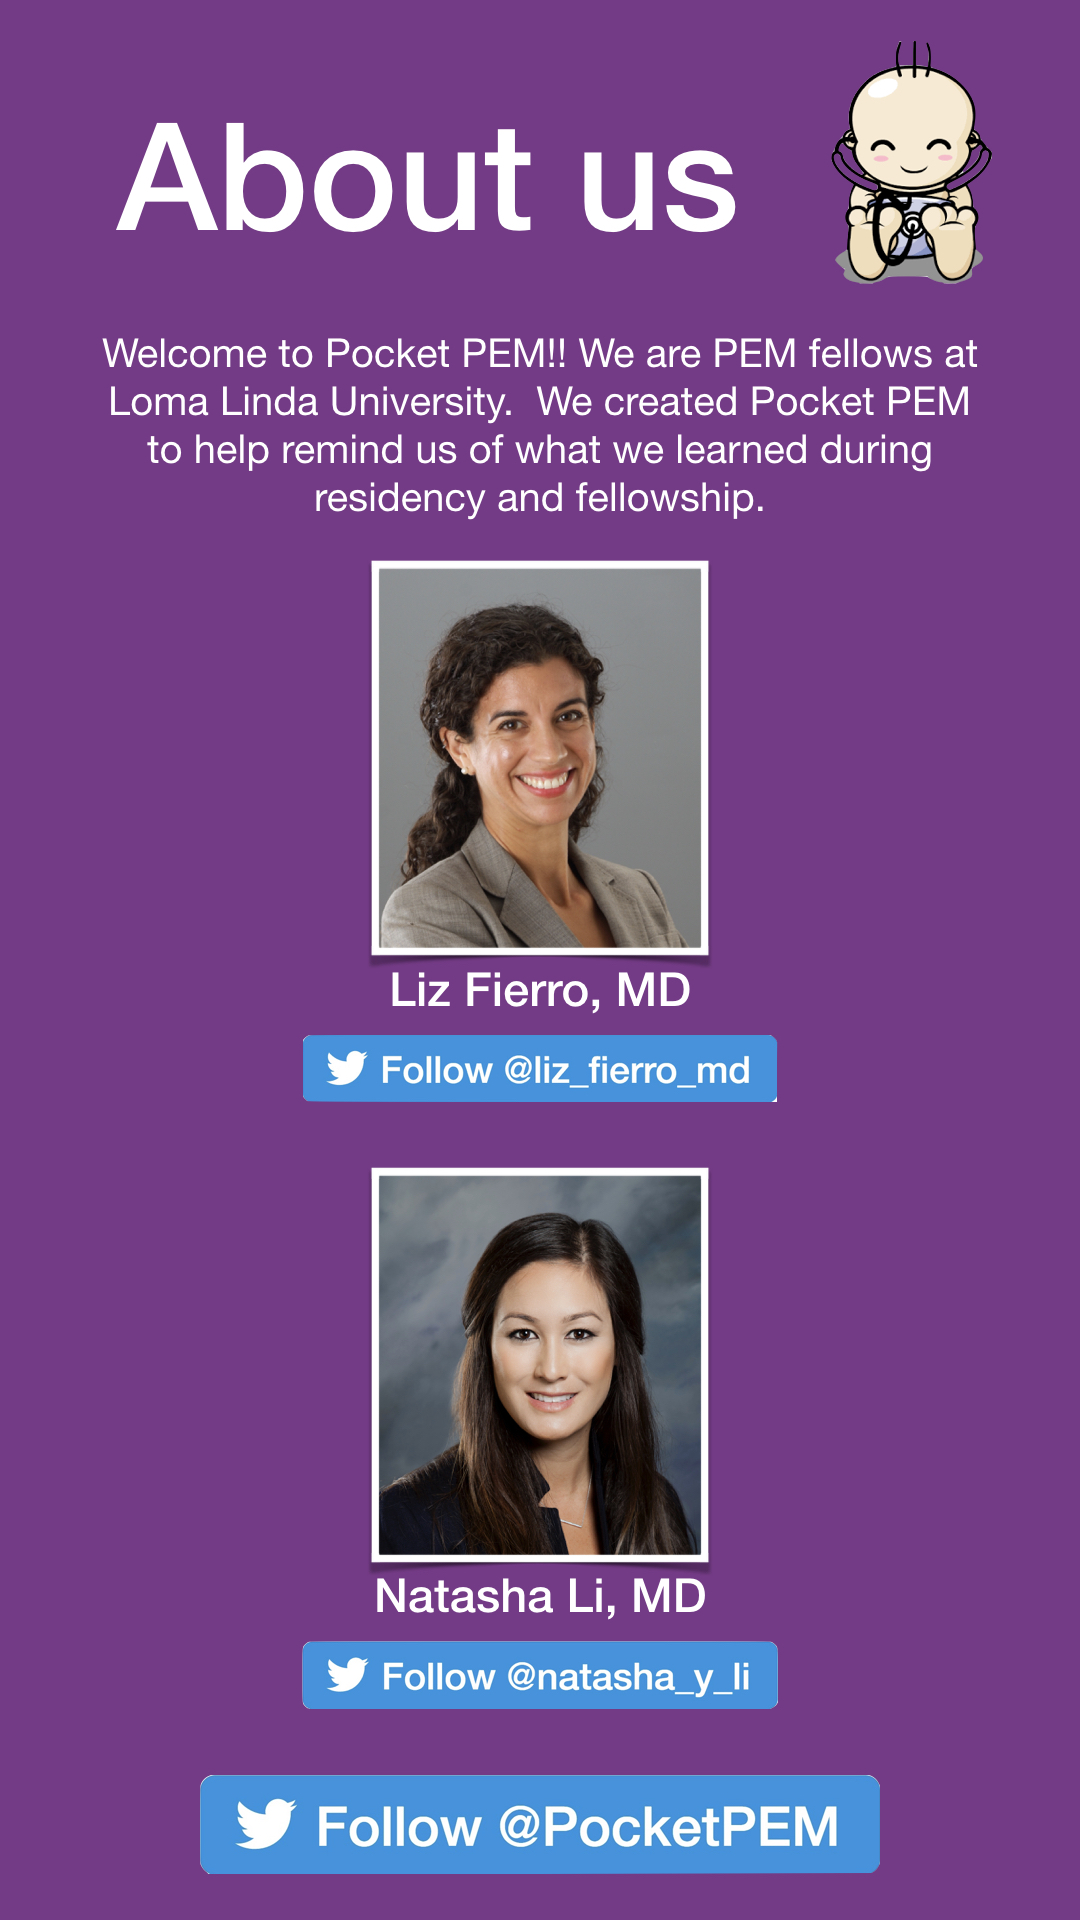
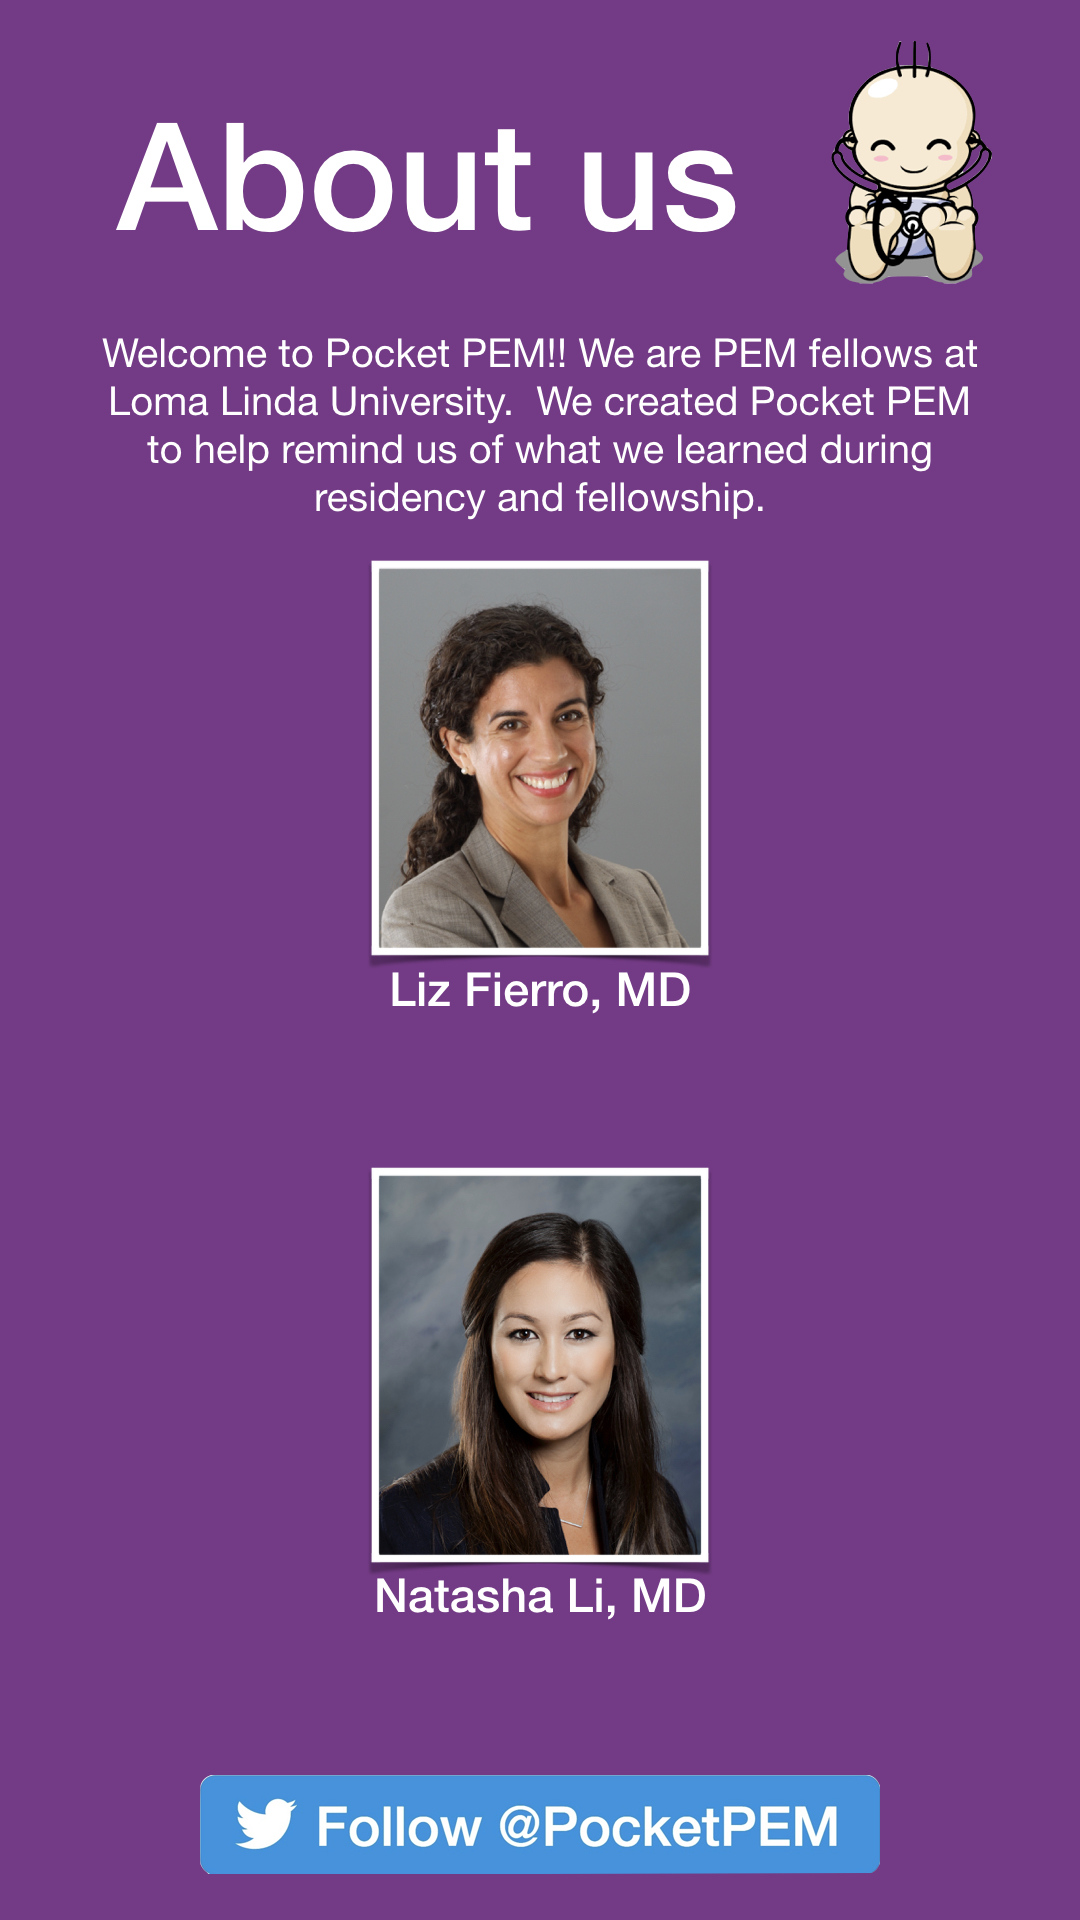
media

Changed region(s): [[0.275, 0.8438, 0.7333, 0.9062], [0.275, 0.5312, 0.7333, 0.5938]]

diff --git a/aboutus.html b/aboutus.html
@@ -11,8 +11,6 @@
     <a href="toc.html"><img src="./slides/aboutus.jpeg"></a>
 
     <a href="http://twitter.com/PocketPEM"><button class="btn">@PocketPEM</button></a>
-    <a href="http://twitter.com/PocketPEM"><button class="btn1" >@liz_fierro_md</button></a>
-    <a href="http://twitter.com/natasha_y_li"><button class="btn2" >@natasha_y_li</button></a>
 
 </div>
     

diff --git a/style.css b/style.css
@@ -84,7 +84,7 @@ p {
     -ms-transform: translate(-50%, -50%);
     background-color: transparent;
     color: transparent;
-    font-size: 25px;
+    font-size: 50px;
     padding: 12px 24;
     border: none;
     cursor: pointer;
